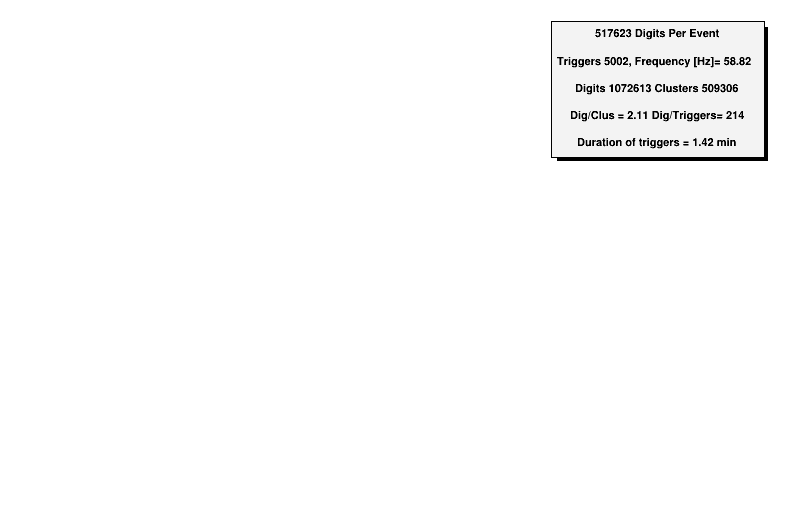
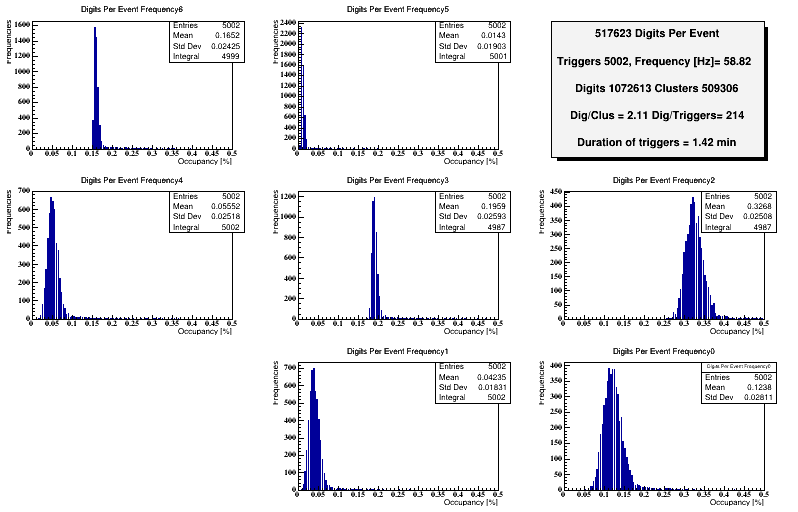
evrything except digmap prints correct | need to correct some namings

diff --git a/517623/readClusters.C b/517623/readClusters.C
@@ -61,6 +61,13 @@ std::vector<o2::hmpid::Trigger> mTriggersFromFile,
 // void SaveFolder(string inpFile);
 void changeFont();
 
+void drawMIPCharge(TCanvas* tcnv);
+void drawDigCharge(TCanvas* tcnv);
+void drawDigMap(TCanvas* tcnv);
+void drawDigMapAvg(TCanvas* tcnv);
+void drawDigOccupancy(TCanvas* tcnv);
+
+
 vector<string> dig2Clus(const std::string &fileName, vector<Cluster>& clusters, vector<Trigger>& clusterTriggers, vector<Digit>& digits);
 bool mReadFile = false;
 std::string mSigmaCutPar;
@@ -220,7 +227,7 @@ void readClusters(int nEvents)
   
 
   const char* trigTimeStr = Form("Trigger Time Freq");
-  triggerTimeFreqHist.reset(new TH1F(trigTimeStr, trigTimeStr, numTriggers*2, 0., 1000000.));
+  triggerTimeFreqHist.reset(new TH1F(trigTimeStr, trigTimeStr, numTriggers/10, 0., 2000000.));
   triggerTimeFreqHist->SetXTitle("Trigger Time");
   triggerTimeFreqHist->SetYTitle("Frequency");
  
@@ -450,22 +457,15 @@ void readClusters(int nEvents)
 
   for (int iCh = 0; iCh < 7; iCh++) {
     const auto& pos = posArr[iCh];
-    auto pad5 = static_cast<TPad*>(canvas[4]->cd(pos));
-    digPerEvent[iCh]->Draw();
-  }
-
-
-  for (int iCh = 0; iCh < 7; iCh++) {
-    const auto& pos = posArr[iCh];
     // ========== Digit MAP =========================
 
 
-    auto pad5 = static_cast<TPad*>(canvas[4]->cd(pos));
-    digPerEvent[iCh]->Draw();
-    //pad5->SetLeftMargin(+.025+pad5->GetLeftMargin());
+    auto pad5 = static_cast<TPad*>(canvas[2]->cd(pos));
+    //digPerEvent[iCh]->Draw();
+    pad5->SetLeftMargin(+.025+pad5->GetLeftMargin());
 
 
-    /*const auto& pTotalDigs = static_cast<float>(100.0f*digMap[iCh]->GetEntries()/digSize);
+    const auto& pTotalDigs = static_cast<float>(100.0f*digMap[iCh]->GetEntries()/digSize);
     
     digMap[iCh]->SetLabelOffset(digMap[iCh]->GetLabelOffset("y")-0.0015, "y");
     digMap[iCh]->SetTitleOffset(digMap[iCh]->GetTitleOffset("y")-0.0015, "y");
@@ -475,8 +475,9 @@ void readClusters(int nEvents)
     pad5->SetRightMargin(-.0025+pad5->GetRightMargin());
     digMap[iCh]->SetTitle(Form("Chamber %i Percentage of total = %02.0f", iCh, pTotalDigs));
     digMap[iCh]->SetMarkerStyle(3);
-    digMap[iCh]->Draw("Colz"); */
+    digMap[iCh]->Draw("Colz");
   }
+
 
 
   // avg digits charge
@@ -492,41 +493,18 @@ void readClusters(int nEvents)
     pad5->SetRightMargin(-.0025+pad5->GetRightMargin());
     digMapAvg[iCh]->SetTitle(Form("Chamber Avg %i Percentage of total = %02.0f", iCh, pTotalDigs));
     digMapAvg[iCh]->Draw("Colz");
-
-
-    if(pos > 4){
-
-      digPerEvent[iCh]->Draw();
-
-      cout << "avg "  << avgDig[iCh] << " Num digs " << digPerEvent[iCh]->GetEntries() << endl;}
   }
 
-
-
-  gStyle->SetOptStat("e");
-  gStyle->SetStatW(0.3);
-  gStyle->SetStatH(0.6); 
     
   gStyle->SetOptStat("e");
   gStyle->SetStatW(0.3);
   gStyle->SetStatH(0.6); 
     
-  /*
-  for (int iCh = 0; iCh < 7; iCh++) {
-    const auto& pos = posArr[iCh];
-
-    auto pad5 = static_cast<TPad*>(canvas[4]->cd(pos));
-    //pad5->SetLeftMargin(+.025+pad5->GetLeftMargin());
-    pad5->SetBottomMargin(.0015+pad5->GetBottomMargin());
-    pad5->SetRightMargin(-.0025+pad5->GetRightMargin());
-    digPerEvent[iCh]->Draw();
-  } */
   
   for (int iCh = 0; iCh < 7; iCh++) {
     const auto& pos = posArr[iCh];
     // ========== MIP Charge =========================
-    auto pad0 = static_cast<TPad*>(canvas[0]->cd(pos)); // Constant*TMath::Landau(1, [MPV], sigma, 0)
-
+    auto pad0 = static_cast<TPad*>(canvas[0]->cd(pos));
     pad0->SetLeftMargin(-.0025+pad0->GetLeftMargin());
     pad0->SetRightMargin(-.005+pad0->GetRightMargin());
     pad0->SetBottomMargin(.0025+pad0->GetBottomMargin());
@@ -535,7 +513,25 @@ void readClusters(int nEvents)
     hMipCharge[iCh]->SetTitleOffset(0.8, "y");
     //hMipCharge[iCh]->SetTitle(Form("Constant %03.1f \n MPV %03.1f Sigma %03.1f", Constant, MPV, Sigma));
     hMipCharge[iCh]->Draw();
+  }
 
+  //drawMipCharge(hMipCharge)
+
+  gStyle->SetStatW(0.3);
+  gStyle->SetStatH(0.6); 
+  gStyle->SetOptStat("eimr");
+  gStyle->SetLabelOffset(0.00525, "y");
+
+  // avg digits charge
+  for (int iCh = 0; iCh < 7; iCh++) {
+    const auto& pos = posArr[iCh];
+    // ========== Digit MAP =========================
+    auto pad5 = static_cast<TPad*>(canvas[4]->cd(pos));
+    //pad5->SetLeftMargin(+.025+pad5->GetLeftMargin());
+
+    pad5->SetBottomMargin(.0015+pad5->GetBottomMargin());
+    pad5->SetRightMargin(-.0025+pad5->GetRightMargin());
+    digPerEvent[iCh]->Draw();
   }
 
   gStyle->SetStatW(0.3);
@@ -555,6 +551,7 @@ void readClusters(int nEvents)
     pad3->SetRightMargin(-.0025+pad3->GetRightMargin());
     digCharge[iCh]->Draw();
   }
+
 
   gStyle->SetStatH(0.2); 
 
@@ -604,18 +601,15 @@ void readClusters(int nEvents)
     }
     sleep_for(1000ms);
     if(userInput){
-      canvas[0]->Close();
-      canvas[1]->Close();
-      canvas[2]->Close();
-      canvas[3]->Close();
-      canvas[4]->Close();
-      cout << "Got End fro User.. Exiting!";
+      canvas[0]->Close();canvas[1]->Close();canvas[2]->Close();
+      canvas[3]->Close();canvas[4]->Close();cout << "Got End fro User.. Exiting!";
       canvas[0]->SaveAs(Form("MIP_Cluster_Charge_%i_.png",fname));
       canvas[1]->SaveAs(Form("Digit_Charge_%i_.png",fname));
       canvas[2]->SaveAs(Form("Digit_Map_%i_.png",fname));
     }
   }
 }
+
 
 
 void strToFloatsSplit(std::string s, std::string delimiter, float *res,
